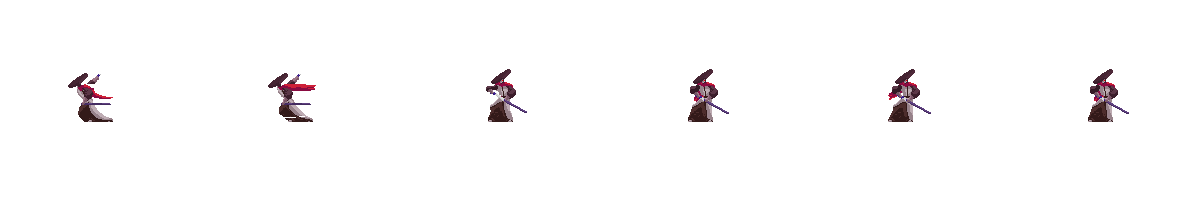
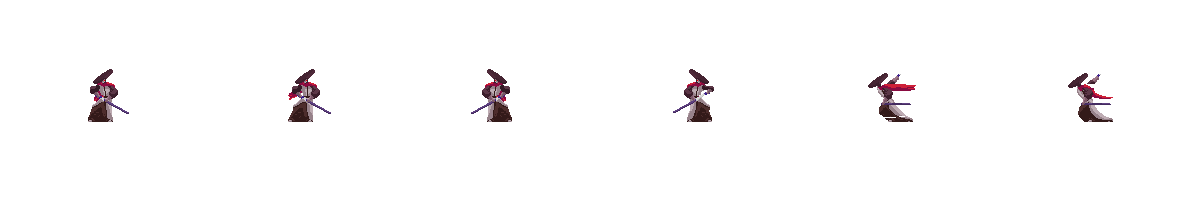
mudancas

diff --git a/js/classes.js b/js/classes.js
@@ -41,6 +41,8 @@ class Sprite{
     }
 }
 
+
+
 class Fighter extends Sprite{
     constructor({
         position, 
@@ -84,6 +86,7 @@ class Fighter extends Sprite{
         this.framesHold = 12
         this.sprites = sprites
         this.death = false
+        this.lado = 'r'
 
         for(const sprite in this.sprites){
             sprites[sprite].image = new Image()
@@ -124,10 +127,12 @@ class Fighter extends Sprite{
             if(this.framesCurrent === this.sprites.death.framesMax -1){
                 this.death = true
             }
-            return}
-
+            return
+        }
         //attack sprite
         if(this.image === this.sprites.attack1.image && this.framesCurrent < this.sprites.attack1.framesMax -1) return
+        if(this.image === this.sprites.attack1L.image && this.framesCurrent < this.sprites.attack1L.framesMax -1) return
+
         //hit sprite
         if(this.image === this.sprites.takeHit.image && this.framesCurrent < this.sprites.takeHit.framesMax -1) return
 
@@ -206,7 +211,11 @@ class Fighter extends Sprite{
     }
 
     attack(){
-        this.switchSprite('attack1')
+        if(this.lado === 'r'){
+            this.switchSprite('attack1')
+        }else{
+            this.switchSprite('attack1L')
+        }
         this.isAttacking = true
     }
 

diff --git a/script.js b/script.js
@@ -6,8 +6,7 @@ canvas.height = 576
 
 let gravity = 0.2
 
-c.fillStyle = 'black'
-c.fillRect(0, 0, canvas.width, canvas.height)
+let lado = 'r'
 
 let background = new Sprite({
     position:{
@@ -181,14 +180,17 @@ function animate(){
 
     //player movement
     if(keys.a.pressed && player.position.x >= 0 && player.lastKey ==='a'){
-        player.switchSprite('runL')
+        player.switchSprite('run')
         player.velocity.x = -5
         player.attackBox.offset.x = -150
+        player.lado='l'
 
     }else if(keys.d.pressed && player.position.x + player.width <= canvas.width && player.lastKey ==='d'){
         player.switchSprite('run')
         player.velocity.x = 5
         player.attackBox.offset.x = 100
+        player.lado='r'
+
 
     }else{
         player.switchSprite('idle')

diff --git a/img/samuraiMack/teste.html b/img/samuraiMack/teste.html
@@ -1,0 +1,22 @@
+<body>
+    <canvas></canvas>
+</body>
+<img src="./Idle.png">
+
+<script>
+    let canvas = document.querySelector('canvas')
+    let c = canvas.getContext('2d')
+    let img = document.querySelector('img')
+    canvas.width = 1000
+    canvas.height  = 500
+    
+    c.fillRect(0,0,canvas.width,canvas.height)
+    console.log(img)
+
+    img.addEventListener('onload', ()=>{
+        console.log(img)
+        c.drawImage(img, 0, 0, canvas.width,canvas.height)
+    })
+    
+
+</script>
